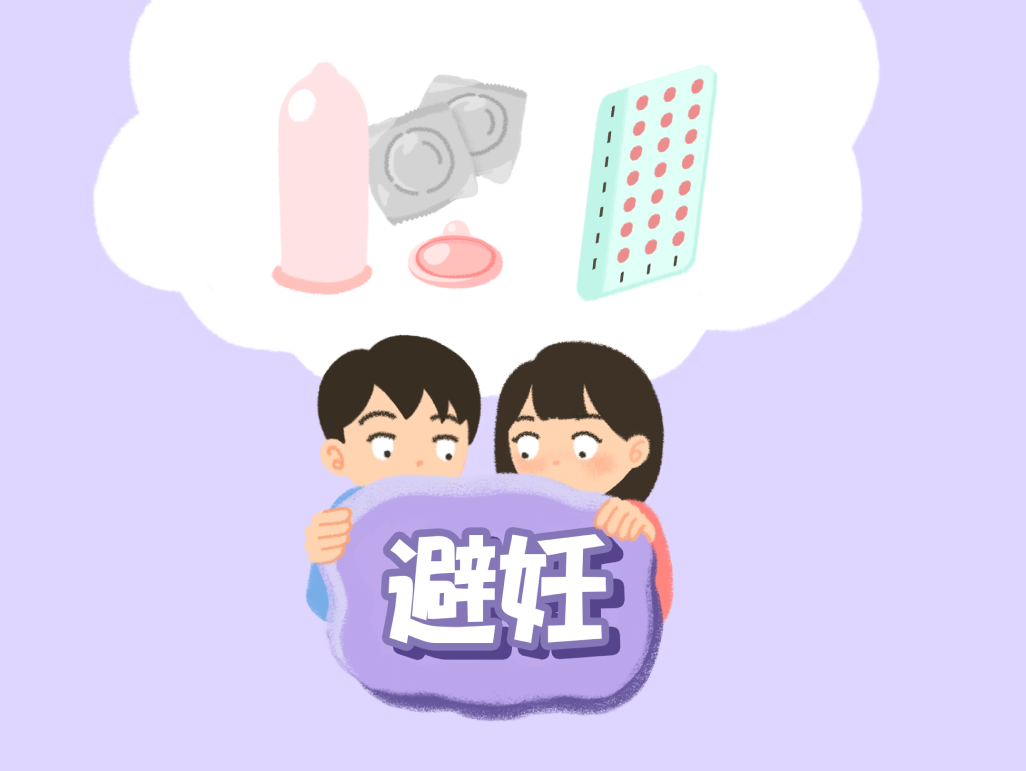
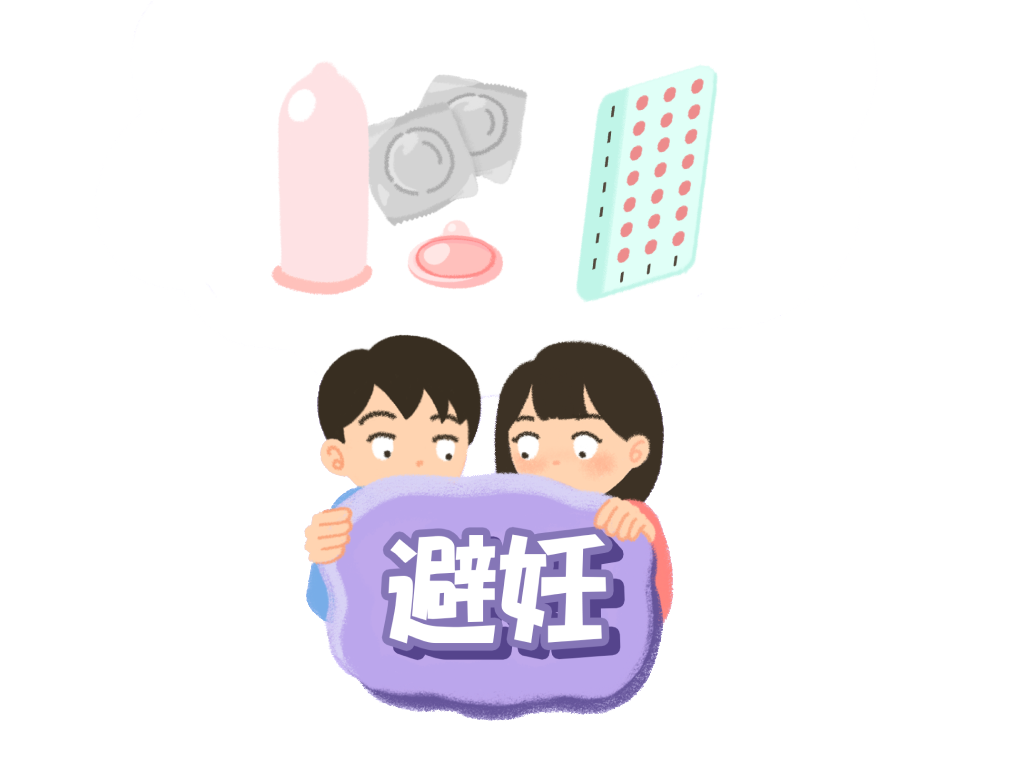
e5,e6 bg updated

diff --git a/src/ehon-content/E5_akachan.js b/src/ehon-content/E5_akachan.js
@@ -28,11 +28,14 @@ export default function E5_akachan(props) {
                             pageOnChange={(number) => {context.visitedCurrentPage(number)}}
                         >
                             <section className='e5 s1'>
-                                <div className='section-wrapper flex-row'>
-                                    <Image className=''
-                                        src={process.env.PUBLIC_URL + `/images/ehon/${thisLesson.lessonId}/baby-doko-1.png`}
-                                        webp={process.env.PUBLIC_URL + `/images/ehon/${thisLesson.lessonId}/baby-doko-1.png`} 
-                                    />
+                                <div className='section-wrapper'>
+                                    <img className='' src={process.env.PUBLIC_URL + `/images/ehon/${thisLesson.lessonId}/baby-doko.png`}/>
+                                    <img className='s1_baby' src={process.env.PUBLIC_URL + `/images/ehon/${thisLesson.lessonId}/baby.png`}/>
+                                    
+                                    <div className='infi-slider'>
+                                        <img src={process.env.PUBLIC_URL + `/images/ehon/${thisLesson.lessonId}/s1_bg.png`}/>
+                                        <img src={process.env.PUBLIC_URL + `/images/ehon/${thisLesson.lessonId}/s1_bg.png`}/>
+                                    </div>
                                 </div>
                             </section>
 

diff --git a/src/ehon-content/E6_hinin.css b/src/ehon-content/E6_hinin.css
@@ -13,16 +13,54 @@
 .e6.s6, .e6.s7 {background-color: #5658A1;}
 
 /*-----------------------------------section 1------------------------------------*/
-
-.e6.s1 > .section-wrapper > .s1_hinin {
+.e6.s1 > .section-wrapper {
+    position: relative;
+    height: 100%;
+}
+.e6.s1 > .section-wrapper > img {
+    position: absolute;
+    z-index: 100;
+}
+.s1_hinin {
     width: 65%;
-    display: block;
-    margin: 0 auto;
+    left: 50%;
+    transform: translateX(-50%);
+}
+.s1_shiri {
+    width: 21%;
+    bottom: 10%;
+    left: 16%; 
+    position: absolute;
+}
+.s1_chin {
+    width: 15%; 
+    bottom: 10%;
+    right: 22%;
+    position: absolute;
 }
 .e6.s1 > .section-wrapper > .block-msg {
-    margin: 0 auto;
+    position: absolute;
+    left: 50%;
+    transform: translateX(-50%);
+    bottom: 15%;
+    z-index: 99;
+}
+.e6.s1 > .section-wrapper > .infi-slider {
+    width: 100%;
+    display: flex;
+    z-index: 99;
+    transform: rotate(-45deg) translate(14%,-14%);
+}
+.e6.s1 > .section-wrapper > .infi-slider > img {
+    animation: slide 60s linear infinite;
+    animation-delay: -60s;
+    width: 100%;
 }
 
+.e6.s1 > .section-wrapper > .infi-slider > img:nth-child(2) {
+    animation: slide2 60s linear infinite;
+    animation-delay: -30s;
+}
 /*-----------------------------------section 2------------------------------------*/
 .e6.s2 > .section-wrapper {
     transform: translate(-50%,-54%);

diff --git a/src/ehon-content/E6_hinin.js b/src/ehon-content/E6_hinin.js
@@ -29,6 +29,14 @@ export default function E6_hinin(props) {
                             <section className='e6 s1'>
                                 <div className='section-wrapper flex-column'>
                                     <img className='s1_hinin' src={process.env.PUBLIC_URL + `/images/ehon/${thisLesson.lessonId}/s1_hinin.png`}/>
+                                    <img className='s1_shiri' src={process.env.PUBLIC_URL + `/images/ehon/${thisLesson.lessonId}/s1_shiri.png`}/>
+                                    <img className='s1_chin' src={process.env.PUBLIC_URL + `/images/ehon/${thisLesson.lessonId}/s1_chin.png`}/>
+                                    
+                                    <div className='infi-slider'>
+                                        <img src={process.env.PUBLIC_URL + `/images/ehon/${thisLesson.lessonId}/s1_bg.png`}/>
+                                        <img src={process.env.PUBLIC_URL + `/images/ehon/${thisLesson.lessonId}/s1_bg.png`}/>
+                                    </div>
+                                    
                                     <p className='block-msg'>案外妊娠にならないように<br/>ふたりをまもる！基本的な避妊法</p>
                                 </div>
                             </section>

diff --git a/src/ehon-content/E5_akachan.css b/src/ehon-content/E5_akachan.css
@@ -5,6 +5,9 @@
     background-size: cover;
     background-repeat: no-repeat;
 }
+.e5.s1 {
+    background-color: #d4ffc6;
+}
 .e5.s2, .e5.s3,.e5.s4,.e5.s5,.e5.s6 {background-color: #FAFAFA;}
 
 .box-content {
@@ -37,7 +40,32 @@
 }
 
 /*-----------------------------------section 1------------------------------------*/
+.e5.s1 > .section-wrapper {
+    position: relative;
+}
+.s1_baby {
+    animation: float 3s infinite ease-out;
+}
+.e5.s1 > .section-wrapper > img {
+    width: 100%;
+    position: absolute;
+    z-index: 100;
+}
+.e5.s1 > .section-wrapper > .infi-slider {
+    width: 100%;
+    display: flex;
+    z-index: 99;
+}
+.e5.s1 > .section-wrapper > .infi-slider > img {
+    animation: slide 60s linear infinite;
+    animation-delay: -60s;
+    width: 100%;
+}
 
+.e5.s1 > .section-wrapper > .infi-slider > img:nth-child(2) {
+    animation: slide2 60s linear infinite;
+    animation-delay: -30s;
+}
 /*-----------------------------------section 2------------------------------------*/
 .e5.s2 > .section-wrapper {
     transform: translate(-50%,-52%);

diff --git a/src/components/Header.css b/src/components/Header.css
@@ -49,9 +49,19 @@
 
 .nav-list__item.flex-row {
     justify-content: space-evenly;
+    border-top: 1px solid var(--grey-color);
+    margin: 10px 40px;
+
 }
 .nav-list__item.flex-row > .nav-item {
-    padding-left: 0;
+    padding-left: 0px;
+    margin-top: 10px;
+}
+.nav-list__item.flex-row > .nav-item:hover {
+    background: none;
+}
+.nav-list__item.flex-row > .nav-item:hover > div > h4 {
+    color: var(--red-color);
 }
 .sos-btn {
     padding: 12px 100px;

diff --git a/src/Keyframes.css b/src/Keyframes.css
@@ -23,7 +23,16 @@
     0% {transform: translateX(0);}
     100% {transform: translateX(-200%);}
 }
-
+@keyframes float {
+    0%, 100% {
+        -webkit-transform: translateY(6px);
+        transform: translateY(12px);
+    }
+    50% {
+        -webkit-transform: translateY(-6px);
+        transform: translateY(-12px);
+    }
+}
 @keyframes kata0 {
     0%, 10%, 11%, 21%, 30%, 41%, 100% {
         -webkit-transform: translateY(1px);
